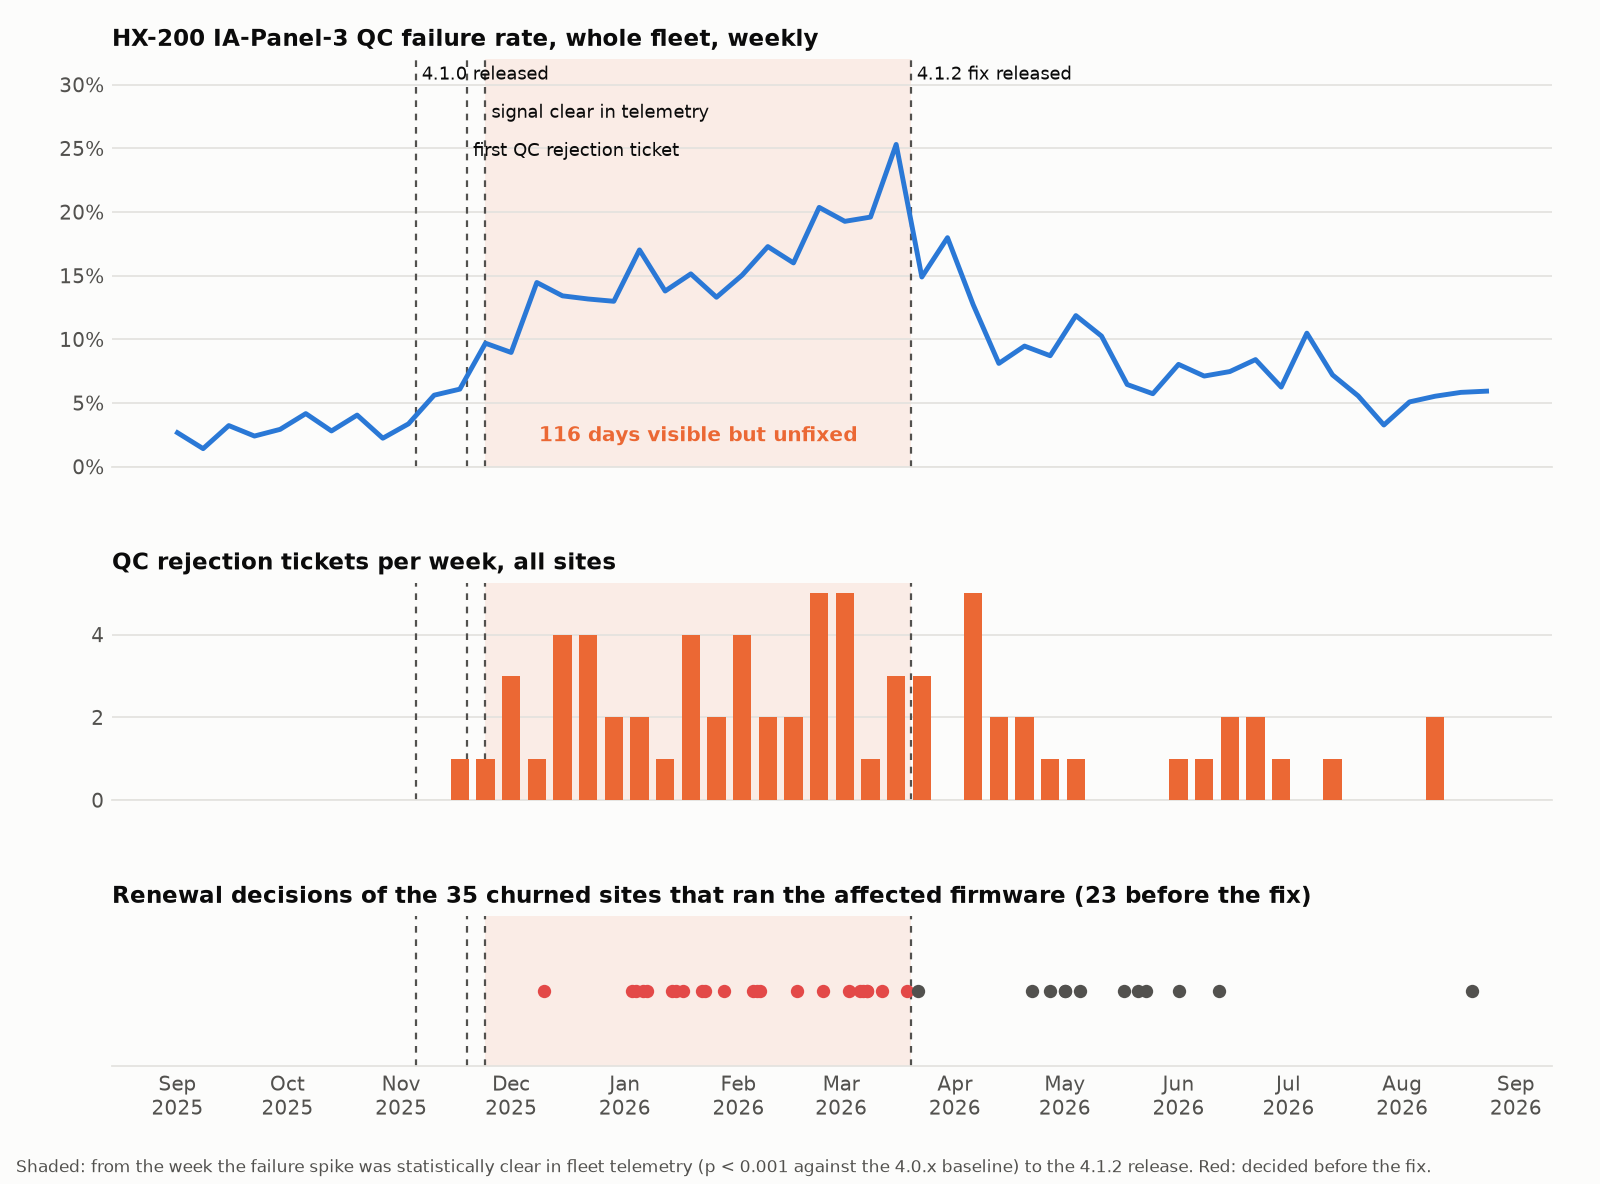
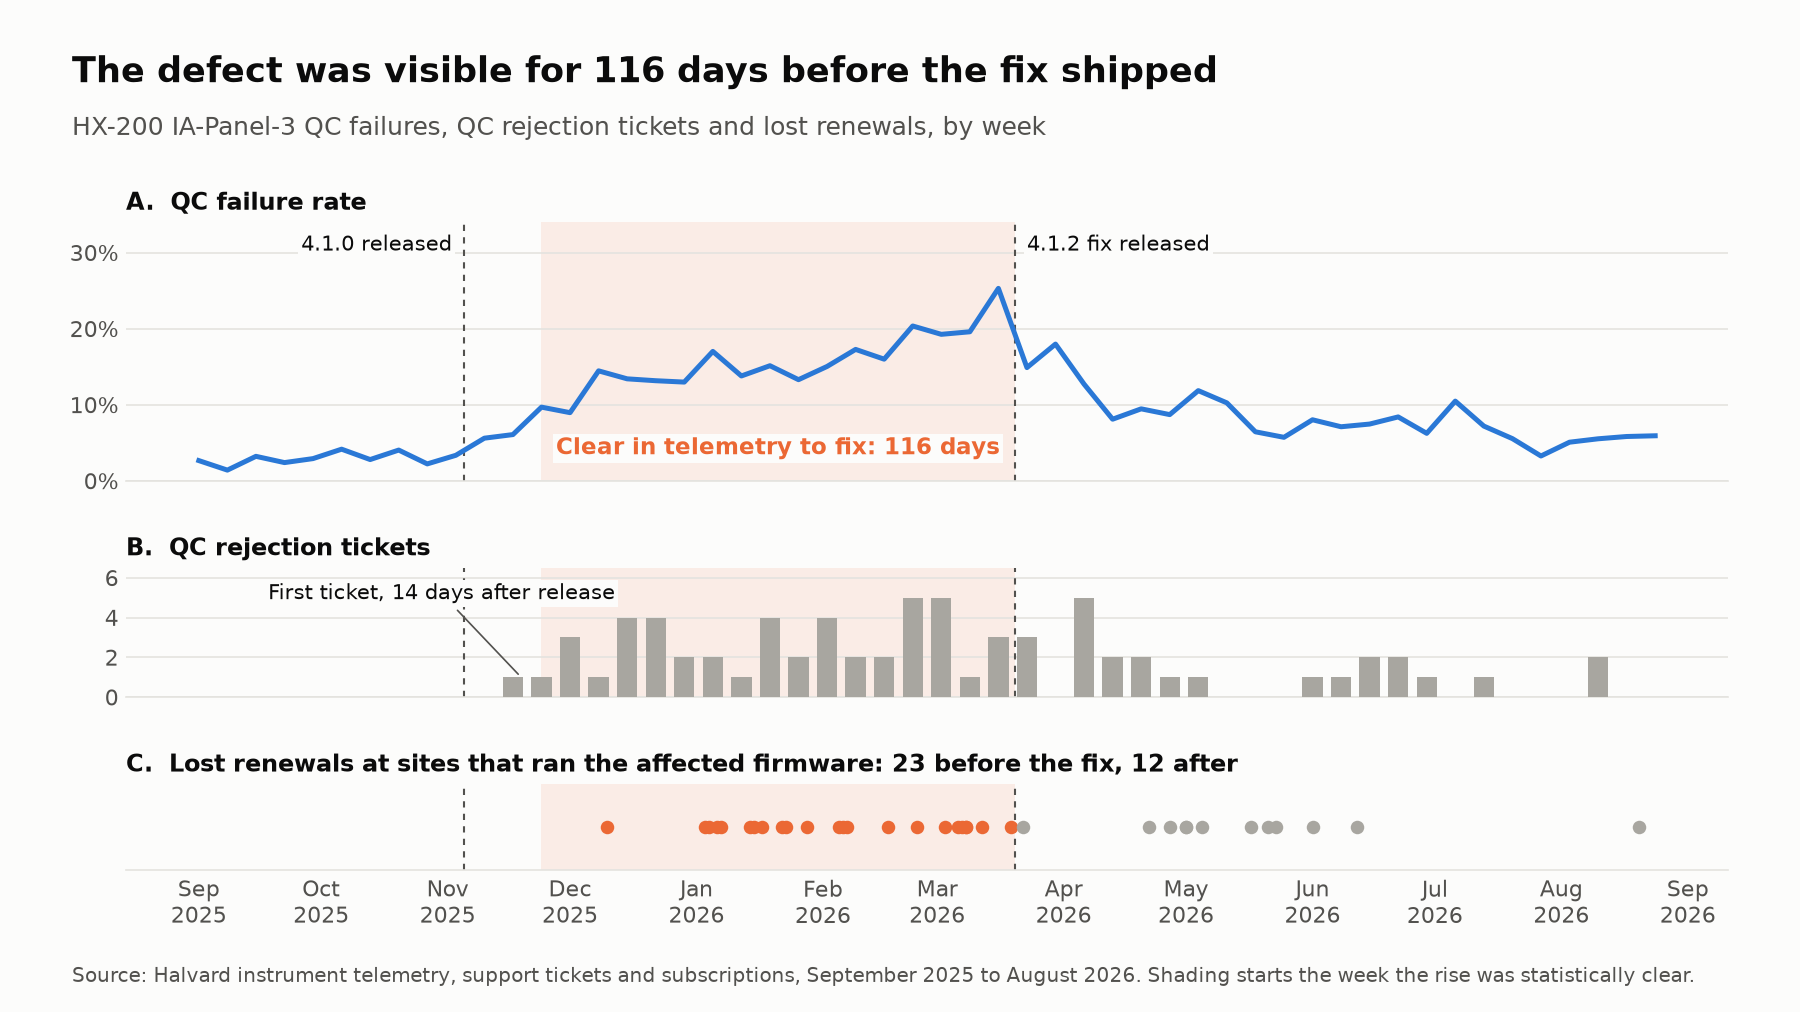
Redraw the two FINDINGS figures in a shared slide format

diff --git a/src/analysis.py b/src/analysis.py
@@ -79,6 +79,34 @@ def style(ax):
     ax.set_axisbelow(True)
 
 
+
+# Presentation figures share one format: 16:9, a takeaway title, a one-line subtitle,
+# a legend row, and a source line. Orange always means the affected firmware or the
+# problem; grey means the comparison; blue is a neutral trend over time.
+GREY = "#a8a6a0"
+
+
+def slide(title, subtitle, source, nrows=1, ncols=1, **kw):
+    fig, axes = plt.subplots(nrows, ncols, figsize=(12, 6.75), dpi=150, facecolor=SURFACE, **kw)
+    fig.text(0.04, 0.945, title, color=INK, fontsize=17, fontweight="bold", va="top")
+    fig.text(0.04, 0.885, subtitle, color=INK_2, fontsize=12, va="top")
+    fig.text(0.04, 0.025, source, color=INK_2, fontsize=9.5, va="bottom")
+    for ax in np.atleast_1d(axes).ravel():
+        style(ax)
+        ax.tick_params(labelsize=10.5)
+    return fig, axes
+
+
+def legend_row(fig, items, y=0.835):
+    # Coloured squares with labels, in a row under the subtitle, clear of the plots.
+    x = 0.04
+    for color, label in items:
+        fig.patches.append(matplotlib.patches.Rectangle((x, y - 0.012), 0.012, 0.022, color=color,
+                                                        transform=fig.transFigure, figure=fig))
+        fig.text(x + 0.018, y, label, color=INK, fontsize=10.5, va="center")
+        x += 0.018 + 0.0072 * len(label) + 0.03
+
+
 # ---------------------------------------------------------------- Part A
 
 def lot_test(con, results):
@@ -453,46 +481,50 @@ def customer_story(con, results):
         select date_trunc('week', cast(opened_ts as date))::date as week, count(*) as n
         from stg_support_tickets where category = 'qc_rejection' group by 1 order by 1
     """).df()
-    fig, axes = plt.subplots(3, 1, figsize=(10, 7.4), dpi=160, facecolor=SURFACE, sharex=True,
-                             gridspec_kw={"height_ratios": [3, 1.6, 1.1]})
-    lo, hi = pd.Timestamp(clear), pd.Timestamp(fix)
-    marks = [(pd.Timestamp(rel), "4.1.0 released"), (lo, "signal clear in telemetry"),
-             (pd.Timestamp(first_ticket), "first QC rejection ticket"), (hi, "4.1.2 fix released")]
-    for ax in axes:
-        style(ax)
-        ax.axvspan(lo, hi, color=ORANGE, alpha=0.10, linewidth=0, zorder=0)
-        for day, _ in marks:
-            ax.axvline(day, color=INK_2, linewidth=1, linestyle=(0, (3, 3)), zorder=1)
-    ax = axes[0]
-    ax.plot(pd.to_datetime(w.week), w.rate, color=BLUE, linewidth=2.2, zorder=3)
-    ax.set_ylim(0, 0.32)
-    ax.yaxis.set_major_formatter(matplotlib.ticker.PercentFormatter(1.0, decimals=0))
-    ax.set_title("HX-200 IA-Panel-3 QC failure rate, whole fleet, weekly", loc="left", color=INK,
-                 fontsize=10.5, fontweight="bold")
-    ypos = [0.315, 0.285, 0.255, 0.315]
-    for (day, label), y in zip(marks, ypos):
-        ax.text(day, y, f" {label}", color=INK, fontsize=8, va="top")
     cs = results["customer_story"]
-    ax.text(lo + (hi - lo) / 2, 0.02, f"{cs['days_signal_to_fix']} days visible but unfixed",
-            color=ORANGE, fontsize=9, fontweight="bold", ha="center")
+    lo, hi, r410 = pd.Timestamp(clear), pd.Timestamp(fix), pd.Timestamp(rel)
+    fig, axes = slide(f"The defect was visible for {cs['days_signal_to_fix']} days before the fix shipped",
+                      "HX-200 IA-Panel-3 QC failures, QC rejection tickets and lost renewals, by week",
+                      "Source: Halvard instrument telemetry, support tickets and subscriptions, September 2025 to "
+                      "August 2026. Shading starts the week the rise was statistically clear.",
+                      nrows=3, sharex=True, gridspec_kw={"height_ratios": [3, 1.5, 1]})
+    fig.subplots_adjust(top=0.78, bottom=0.14, left=0.07, right=0.96, hspace=0.55)
+    for ax in axes:
+        ax.axvspan(lo, hi, color=ORANGE, alpha=0.10, linewidth=0, zorder=0)
+        for day in (r410, hi):
+            ax.axvline(day, color=INK_2, linewidth=1, linestyle=(0, (3, 3)), zorder=1)
+    box = dict(facecolor=SURFACE, edgecolor="none", pad=1.5)
+    ax = axes[0]
+    ax.plot(pd.to_datetime(w.week), w.rate, color=BLUE, linewidth=2.4, zorder=3)
+    ax.set_ylim(0, 0.34)
+    ax.yaxis.set_major_formatter(matplotlib.ticker.PercentFormatter(1.0, decimals=0))
+    ax.set_title("A.  QC failure rate", loc="left", color=INK, fontsize=11.5, fontweight="bold")
+    ax.text(r410 - pd.Timedelta(days=3), 0.31, "4.1.0 released", color=INK, fontsize=10, ha="right",
+            va="center", bbox=box, zorder=4)
+    ax.text(hi + pd.Timedelta(days=3), 0.31, "4.1.2 fix released", color=INK, fontsize=10, ha="left",
+            va="center", bbox=box, zorder=4)
+    ax.text(lo + (hi - lo) / 2, 0.035, f"Clear in telemetry to fix: {cs['days_signal_to_fix']} days",
+            color=ORANGE, fontsize=11, fontweight="bold", ha="center", bbox=box, zorder=4)
     ax = axes[1]
-    ax.bar(pd.to_datetime(tk.week), tk.n, width=5, color=ORANGE, zorder=3)
-    ax.set_title("QC rejection tickets per week, all sites", loc="left", color=INK, fontsize=10.5,
-                 fontweight="bold")
+    ax.bar(pd.to_datetime(tk.week), tk.n, width=5, color=GREY, zorder=3)
+    ax.set_title("B.  QC rejection tickets", loc="left", color=INK, fontsize=11.5, fontweight="bold")
+    ax.set_ylim(0, tk.n.max() + 1.5)
+    ax.yaxis.set_major_locator(matplotlib.ticker.MultipleLocator(2))
+    ft = pd.Timestamp(first_ticket)
+    ax.annotate(f"First ticket, {(ft - r410).days} days after release", xy=(ft, 1), xytext=(ft - pd.Timedelta(days=62), 5.2),
+                color=INK, fontsize=10, va="center", arrowprops=dict(arrowstyle="-", color=INK_2, lw=0.8),
+                bbox=box, zorder=4)
     ax = axes[2]
-    for i, dday in enumerate(sorted(ex_ch.decision_date)):
-        ax.scatter(dday, 0.5, s=36, color="#e34948" if dday < hi else INK_2, zorder=3, linewidths=0)
+    before = [d for d in ex_ch.decision_date if d < hi]
+    after = [d for d in ex_ch.decision_date if d >= hi]
+    ax.scatter(before, [0.5] * len(before), s=42, color=ORANGE, zorder=3, linewidths=0)
+    ax.scatter(after, [0.5] * len(after), s=42, color=GREY, zorder=3, linewidths=0)
     ax.set_yticks([])
     ax.set_ylim(0, 1)
-    ax.set_title(f"Renewal decisions of the {cs['exposed_churned']} churned sites that ran the affected firmware "
-                 f"({cs['exposed_churned_before_fix']} before the fix)", loc="left", color=INK,
-                 fontsize=10.5, fontweight="bold")
+    ax.set_title(f"C.  Lost renewals at sites that ran the affected firmware: {len(before)} before the fix, "
+                 f"{len(after)} after", loc="left", color=INK, fontsize=11.5, fontweight="bold")
     axes[2].xaxis.set_major_locator(matplotlib.dates.MonthLocator())
     axes[2].xaxis.set_major_formatter(matplotlib.dates.DateFormatter("%b\n%Y"))
-    fig.text(0.01, 0.01, "Shaded: from the week the failure spike was statistically clear in fleet telemetry "
-             "(p < 0.001 against the 4.0.x baseline) to the 4.1.2 release. Red: decided before the fix.",
-             color=INK_2, fontsize=7.5)
-    fig.subplots_adjust(bottom=0.1, top=0.95, left=0.07, right=0.97, hspace=0.45)
     fig.savefig(FIG / "visible_before_fixed.png", facecolor=SURFACE)
     plt.close(fig)
 
@@ -501,33 +533,33 @@ def churn_figures(con, results):
     """Two figures that explain the comparison inside the figure itself."""
     s = pd.read_csv(TAB / "sites_main.csv")
     # Figure 1: churn by segment and by region, split by whether the site ran the affected firmware.
-    fig, axes = plt.subplots(1, 2, figsize=(10.5, 4.4), dpi=160, facecolor=SURFACE, sharey=True,
-                             gridspec_kw={"width_ratios": [3, 4]})
+    fig, axes = slide("Sites that ran the affected firmware lost more renewals, most of all in Europe",
+                      "Share of sites that did not renew at the last cycle",
+                      "Source: Halvard subscriptions and telemetry, 431 sites with 90 days of data before renewal.\n"
+                      "Site counts under each group: did not run it / ran it. Smaller groups vary more by chance.",
+                      ncols=2, sharey=True, gridspec_kw={"width_ratios": [3, 4]})
+    fig.subplots_adjust(top=0.75, bottom=0.21, left=0.06, right=0.97, wspace=0.08)
+    legend_row(fig, [(GREY, "Did not run the affected firmware"), (ORANGE, "Ran the affected firmware")])
+    names = {"hospital_lab": "Hospital labs", "reference_lab": "Reference labs", "research": "Research labs",
+             "EU": "Europe"}
     for ax, col, order, title in [
             (axes[0], "segment", ["hospital_lab", "reference_lab", "research"], "By segment"),
             (axes[1], "region", ["NA-East", "NA-West", "APAC", "EU"], "By region")]:
-        style(ax)
-        for j, (exp, color, label) in enumerate([("no", INK_2, "did not run the affected firmware"),
-                                                 ("yes", ORANGE, "ran the affected firmware")]):
+        counts = []
+        for j2, (exp, color) in enumerate([("no", GREY), ("yes", ORANGE)]):
             t = rate_table(s[s.affected_exposure == exp], col, "churn").set_index(col).reindex(order)
-            x = np.arange(len(order)) + (j - 0.5) * 0.28
-            ax.errorbar(x, t.rate, yerr=[t.rate - t.ci_low, t.ci_high - t.rate], fmt="none",
-                        ecolor=color, elinewidth=1.2, capsize=3, alpha=0.8)
-            ax.scatter(x, t.rate, s=46, color=color, zorder=3, label=label)
-            for xi, r, n in zip(x, t.rate, t.n):
-                ax.text(xi + 0.05, r, f" {r:.0%}", color=INK, fontsize=8, va="center")
+            x = np.arange(len(order)) + (j2 - 0.5) * 0.36
+            ax.bar(x, t.rate, width=0.34, color=color, zorder=3)
+            for xi, r in zip(x, t.rate):
+                ax.text(xi, r + 0.012, f"{r:.0%}", color=INK, fontsize=11, ha="center", va="bottom",
+                        fontweight="bold" if exp == "yes" else "normal")
+            counts.append(t.n.astype(int).tolist())
         ax.set_xticks(range(len(order)))
-        ax.set_xticklabels([o.replace("_", " ") for o in order], fontsize=9, color=INK)
-        ax.set_title(title, loc="left", color=INK, fontsize=10.5, fontweight="bold")
+        ax.set_xticklabels([f"{names.get(o, o)}\n{a} / {b} sites" for o, a, b in zip(order, *counts)],
+                           fontsize=10.5, color=INK)
+        ax.set_title(title, loc="left", color=INK, fontsize=12, fontweight="bold")
         ax.yaxis.set_major_formatter(matplotlib.ticker.PercentFormatter(1.0, decimals=0))
-    axes[0].set_ylim(0, 0.62)
-    axes[0].legend(loc="upper left", frameon=False, fontsize=8.5, labelcolor=INK)
-    fig.suptitle("Churn rate at the last renewal: the affected firmware roughly doubles it in every segment",
-                 x=0.01, ha="left", color=INK, fontsize=11.5, fontweight="bold")
-    fig.text(0.01, 0.01, "Main cohort, 431 sites. Each dot is the share of sites in that group that did not renew. "
-             "Bars: 95% Wilson intervals. NA-East is the one group where the firmware made no difference.",
-             color=INK_2, fontsize=7.5)
-    fig.subplots_adjust(bottom=0.16, top=0.86, left=0.06, right=0.98, wspace=0.08)
+    axes[0].set_ylim(0, 0.5)
     fig.savefig(FIG / "churn_by_segment_region.png", facecolor=SURFACE)
     plt.close(fig)
 
